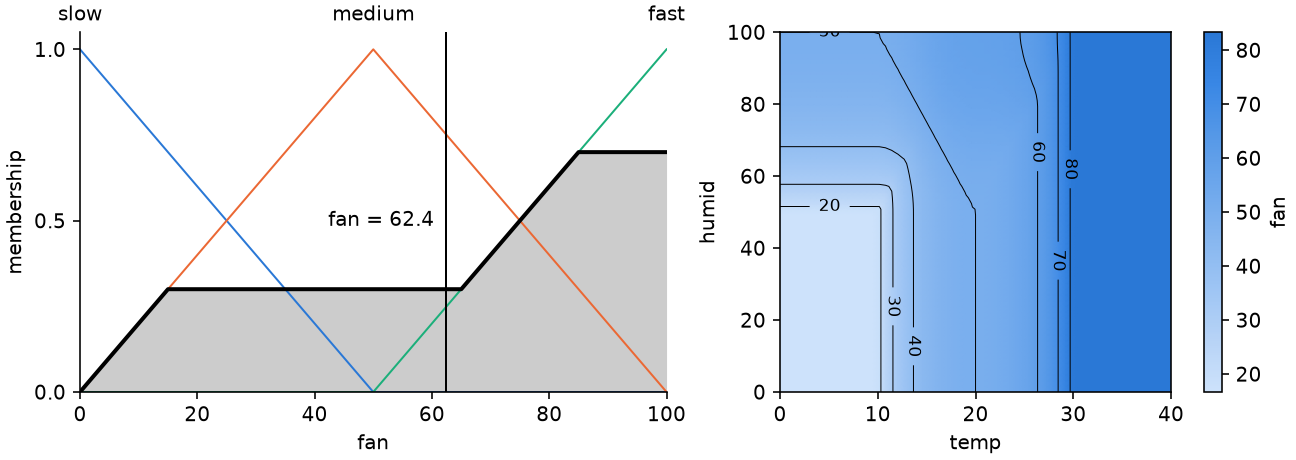
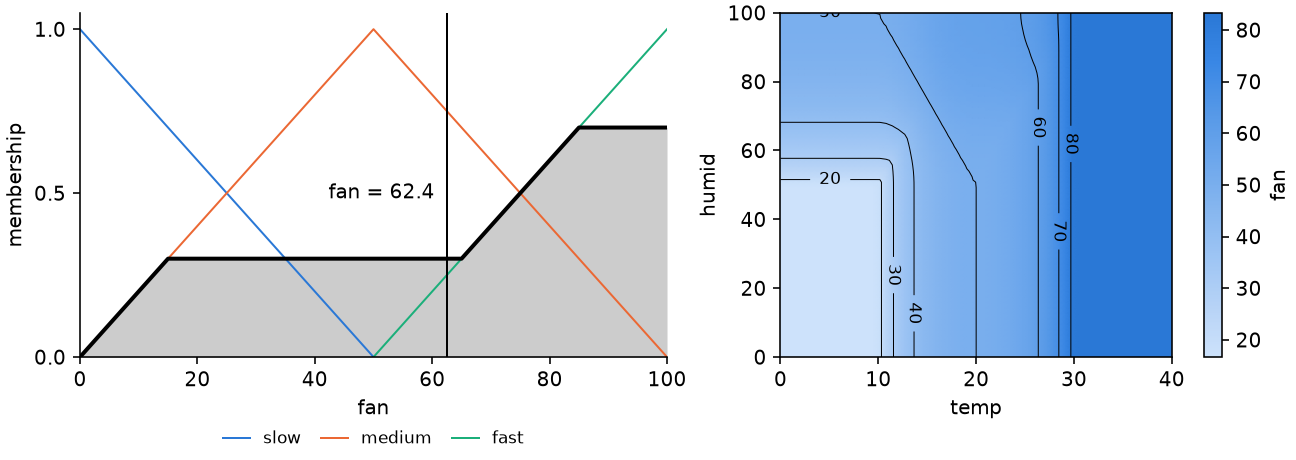
Name the terms of a plot in a legend below the axis
- The term names move from the top into a legend under the axis label,
  at most five to a row and in order along the rows.
- A curve is drawn only where its term is, so the zeros no longer pile
  up along the bottom.
- With more than eight terms the hues start over instead of every curve
  wearing the first.

diff --git a/src/fuzlog/features/plots.py b/src/fuzlog/features/plots.py
@@ -8,12 +8,11 @@ data wears colour. Matplotlib itself is imported by the first plot.
 from __future__ import annotations
 
 import math
-from typing import TYPE_CHECKING
+from typing import TYPE_CHECKING, Any
 
 import numpy as np
 
 from fuzlog.systems import Mamdani, Sugeno
-from fuzlog.types import Array
 from fuzlog.variables import Variable
 
 if TYPE_CHECKING:
@@ -21,7 +20,7 @@ if TYPE_CHECKING:
 
 # Eight hues that stay apart under colour blindness when neighbours take
 # neighbouring slots: one row for light surfaces, one for dark. Terms take them in
-# order; with more terms than hues every curve wears the first.
+# order, and start over after the eighth.
 _HUES = (
     ("#2a78d6", "#eb6834", "#1baf7a", "#eda100",
      "#e87ba4", "#008300", "#6250d6", "#e34948"),
@@ -42,7 +41,7 @@ def plot(what: Variable | Mamdani, ax: Axes | None = None, /, **inputs: float) -
     """Draw a variable, or what a Mamdani system infers for scalar inputs.
 
     ```python
-    fz.plot(temp)                          # every term, named above its peak
+    fz.plot(temp)                          # every term, named in a legend below
     fz.plot(cooler, temp=27, humid=40)     # the output set and its crisp value
     ```
     """
@@ -114,52 +113,46 @@ def _canvas(ax: Axes | None, size: tuple[float, float]) -> tuple[Axes, str]:
 
 
 def _terms(variable: Variable, ax: Axes, *, linewidth: float, wash: float) -> None:
-    """Draw the curve of every term and write the term names along the top."""
+    """Draw the curve of every term and name the terms in a legend below."""
     low, high = variable.universe
     x = np.linspace(low, high, _SAMPLES)
-    degrees = variable(x)
     hues = _HUES[_dark(ax)]
-    for i, curve in enumerate(degrees):
-        hue = hues[i] if len(degrees) <= len(hues) else hues[0]
-        ax.plot(x, curve, color=hue, linewidth=linewidth)
+    curves = []
+    for i, (term, curve) in enumerate(zip(variable.terms, variable(x), strict=True)):
+        hue = hues[i % len(hues)]
+        # Only where the term is, so the zeros don't pile up along the bottom.
+        inside = np.convolve(curve > 0, np.ones(3), mode="same") > 0
+        shown = np.where(inside, curve, np.nan)
+        curves += ax.plot(x, shown, color=hue, linewidth=linewidth, label=term)
         if wash:
             ax.fill_between(x, curve, color=hue, alpha=wash, linewidth=0)
-    places, terms = _peaks(variable).tolist(), list(variable.terms)
-    owner = int(degrees[:, 0].argmax())
-    if variable.periodic and degrees[owner, 0] > 0.5:
-        # The term that owns the seam is named at the far end too.
-        places.append(low if places[owner] > (low + high) / 2 else high)
-        terms.append(terms[owner])
-    names = ax.secondary_xaxis("top")
-    crowded = len(terms) > 6
-    names.set_xticks(
-        places,
-        labels=terms,
-        rotation=45 if crowded else 0,
-        ha="left" if crowded else "center",
-        rotation_mode="anchor",
-    )
-    names.tick_params(length=0)
-    names.spines["top"].set_visible(False)
     ax.set(xlim=(low, high), ylim=(0.0, 1.05), yticks=(0.0, 0.5, 1.0))
     ax.set(xlabel=variable.name, ylabel="membership")
     ax.spines[["top", "right"]].set_visible(False)
+    _legend_below(ax, curves)
 
 
-def _peaks(variable: Variable) -> Array:
-    """The most typical value of every term: the middle of where it is highest.
+def _legend_below(ax: Axes, handles: list[Any]) -> None:
+    """Name the handles in a legend under the axis label, five to a row at most.
 
-    On a periodic universe the middle is found going around the circle.
+    A legend fills column after column; the handles are dealt so that they
+    read in order along the rows.
     """
-    x = variable.grid(2001)
-    degrees = variable(x)
-    core = (degrees >= degrees.max(axis=1, keepdims=True) - 1e-9).astype(np.float64)
-    if not variable.periodic:
-        return (core @ x) / core.sum(axis=1)
-    low, high = variable.universe
-    angle = (x - low) * (math.tau / (high - low))
-    middle = np.arctan2(core @ np.sin(angle), core @ np.cos(angle)) % math.tau
-    return low + middle * ((high - low) / math.tau)
+    columns = math.ceil(len(handles) / math.ceil(len(handles) / 5))
+    dealt = [
+        handles[i] for j in range(columns) for i in range(j, len(handles), columns)
+    ]
+    ax.legend(
+        handles=dealt,
+        loc="upper center",
+        bbox_to_anchor=(0.5, 0.0),
+        borderaxespad=4.0,  # in font sizes: clear of the ticks and the axis label
+        ncol=columns,
+        frameon=False,
+        fontsize="small",
+        handlelength=1.6,
+        columnspacing=1.2,
+    )
 
 
 def _dark(ax: Axes) -> bool:

diff --git a/tests/test_plots.py b/tests/test_plots.py
@@ -20,22 +20,50 @@ def _close_figures():
 
 
 def names(ax):
-    return [label.get_text() for label in ax.child_axes[0].get_xticklabels()]
+    """The term names in the legend of a plot as they read: along the rows."""
+    ax.figure.canvas.draw()
+    legend = ax.get_legend()
+    assert legend is not None
+    marks = [mark.get_window_extent() for mark in legend.legend_handles]
+    places = [(-round(box.y0), round(box.x0)) for box in marks]  # a row stands level
+    terms = [text.get_text() for text in legend.get_texts()]
+    return [term for _, term in sorted(zip(places, terms, strict=True))]
 
 
-def test_variable_plot_names_every_term():
+def rows(ax):
+    """How many rows the legend of a plot takes, once drawn."""
+    ax.figure.canvas.draw()
+    legend = ax.get_legend()
+    assert legend is not None
+    return len({round(mark.get_window_extent().y0) for mark in legend.legend_handles})
+
+
+def test_variable_plot_names_every_term_below():
     ax = fz.plot(TEMP)
     assert len(ax.lines) == 3
     assert names(ax) == ["cold", "warm", "hot"]
+    assert rows(ax) == 1
+    legend, label = ax.get_legend(), ax.xaxis.label
+    assert legend is not None
+    top = max(text.get_window_extent().y1 for text in legend.get_texts())
+    assert top < label.get_window_extent().y0  # under the axis label
     assert ax.get_xlabel() == "temp"
     hue = fz.partition(
         "hue", (0, 360), red=(350, 10), green=120, blue=240, periodic=True
     )
-    top = fz.plot(hue).child_axes[0]
-    assert names(top.axes) == ["red", "green", "blue", "red"]  # named at both ends
-    assert top.get_xticks() == pytest.approx([0, 120, 240, 360], abs=1e-6)
+    assert names(fz.plot(hue)) == ["red", "green", "blue"]  # once, seam or not
     _, given = plt.subplots()
     assert fz.plot(TEMP, given) is given
+
+
+def test_many_terms_take_rows_of_five_and_their_own_colors():
+    many = fz.partition("x", (0, 1), [f"t{i}" for i in range(10)])
+    ax = fz.plot(many)
+    assert rows(ax) == 2  # five to a row
+    assert names(ax) == [f"t{i}" for i in range(10)]  # in order along the rows
+    colors = [line.get_color() for line in ax.lines]
+    assert len(set(colors[:8])) == 8  # eight hues, then over again
+    assert colors[8:] == colors[:2]
 
 
 def test_inference_plot_marks_the_crisp_value():
@@ -43,7 +71,7 @@ def test_inference_plot_marks_the_crisp_value():
     ax = fz.plot(system, temp=27.0)
     assert len(ax.lines) == 5  # three terms, the output set and the crisp value
     assert np.asarray(ax.lines[-1].get_xdata())[0] == system(temp=27.0)
-    assert ax.texts[0].get_text() == f"fan = {system(temp=27.0):.3g}"
+    assert ax.texts[-1].get_text() == f"fan = {system(temp=27.0):.3g}"
     with pytest.raises(ValueError, match="scalar inputs"):
         fz.plot(system, temp=[20.0, 27.0])  # ty: ignore[invalid-argument-type]
 
